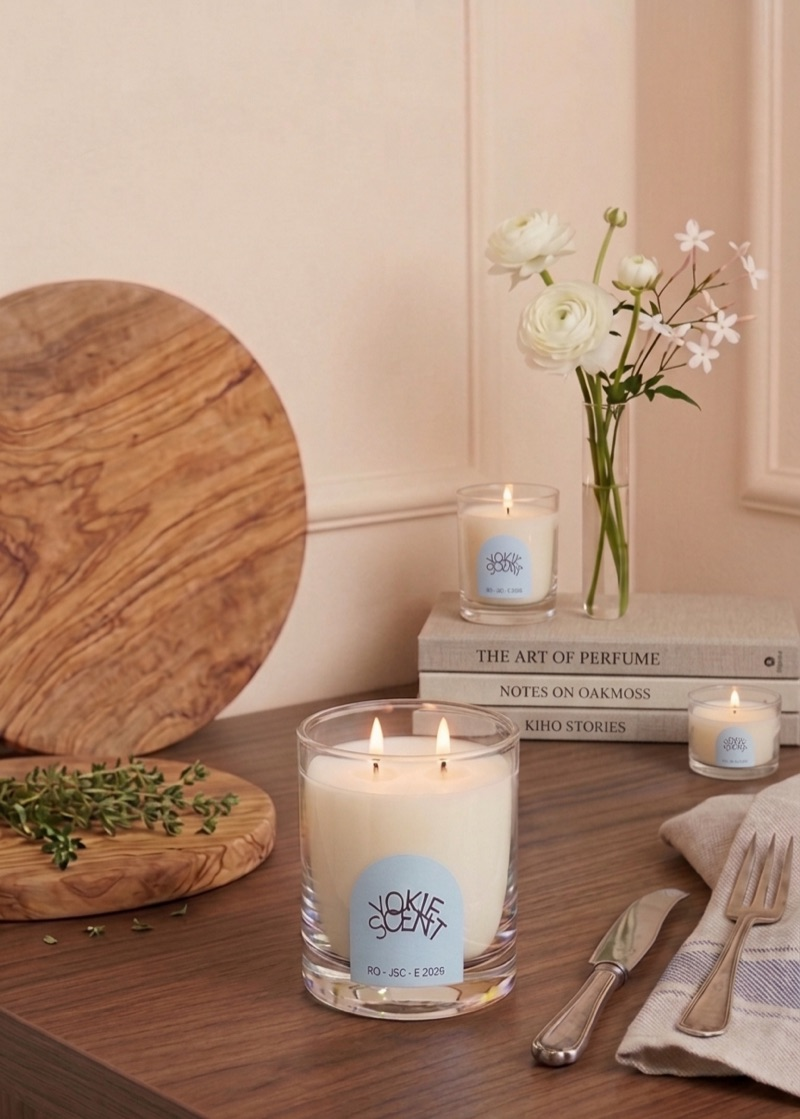
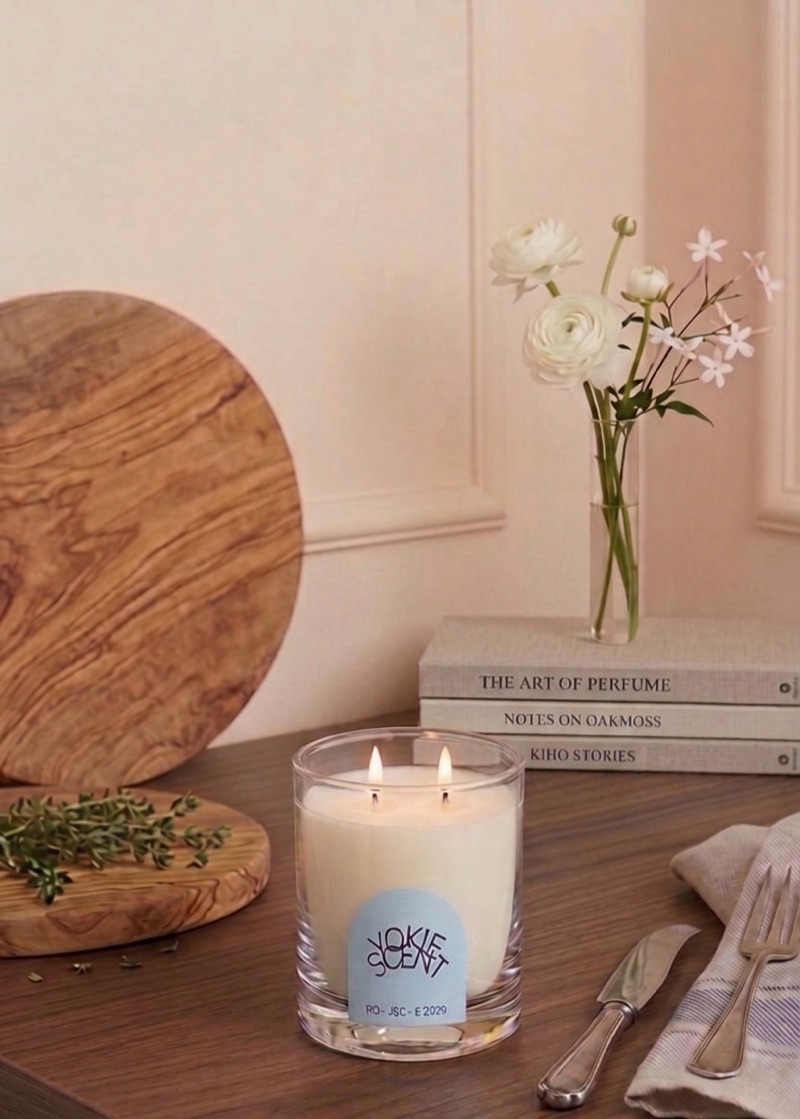
Update candle workshop photo

diff --git a/src/data/workshops.js b/src/data/workshops.js
@@ -62,8 +62,8 @@ export const workshops = [
     durationLabel: '90 Mins',
     price: 59,
     imageUrl: candleDecoratingImage,
-    imageAlt: 'Yokie Scent candles lit on a wooden table beside books and fresh flowers',
-    imagePosition: 'center 85%',
+    imageAlt: 'Lit Yokie Scent candle on a wooden table beside books and fresh flowers',
+    imagePosition: 'center 95%',
     accent: 'yellow',
     inclusions: [
       '1 Gel Crystal Glass Candle Vessel',
